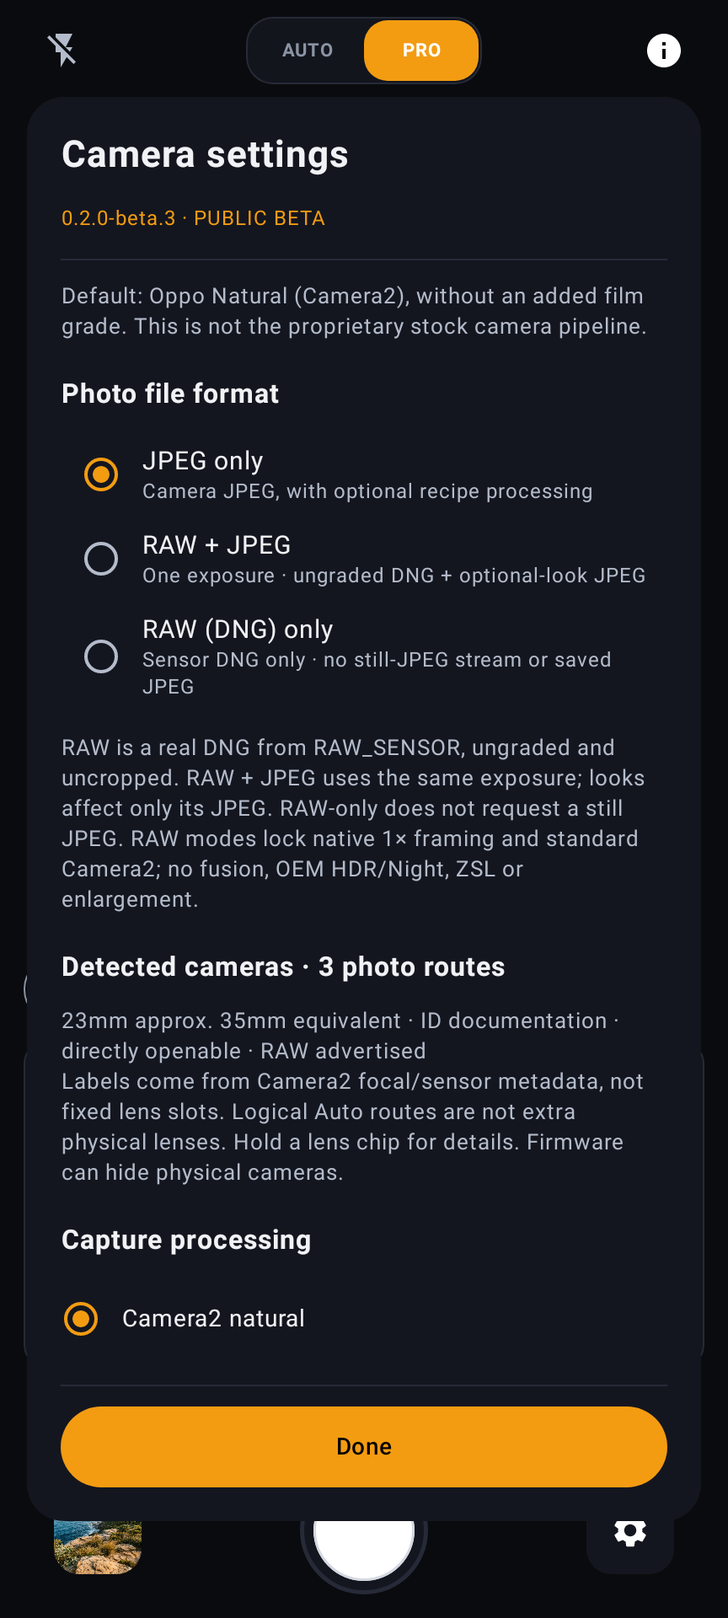
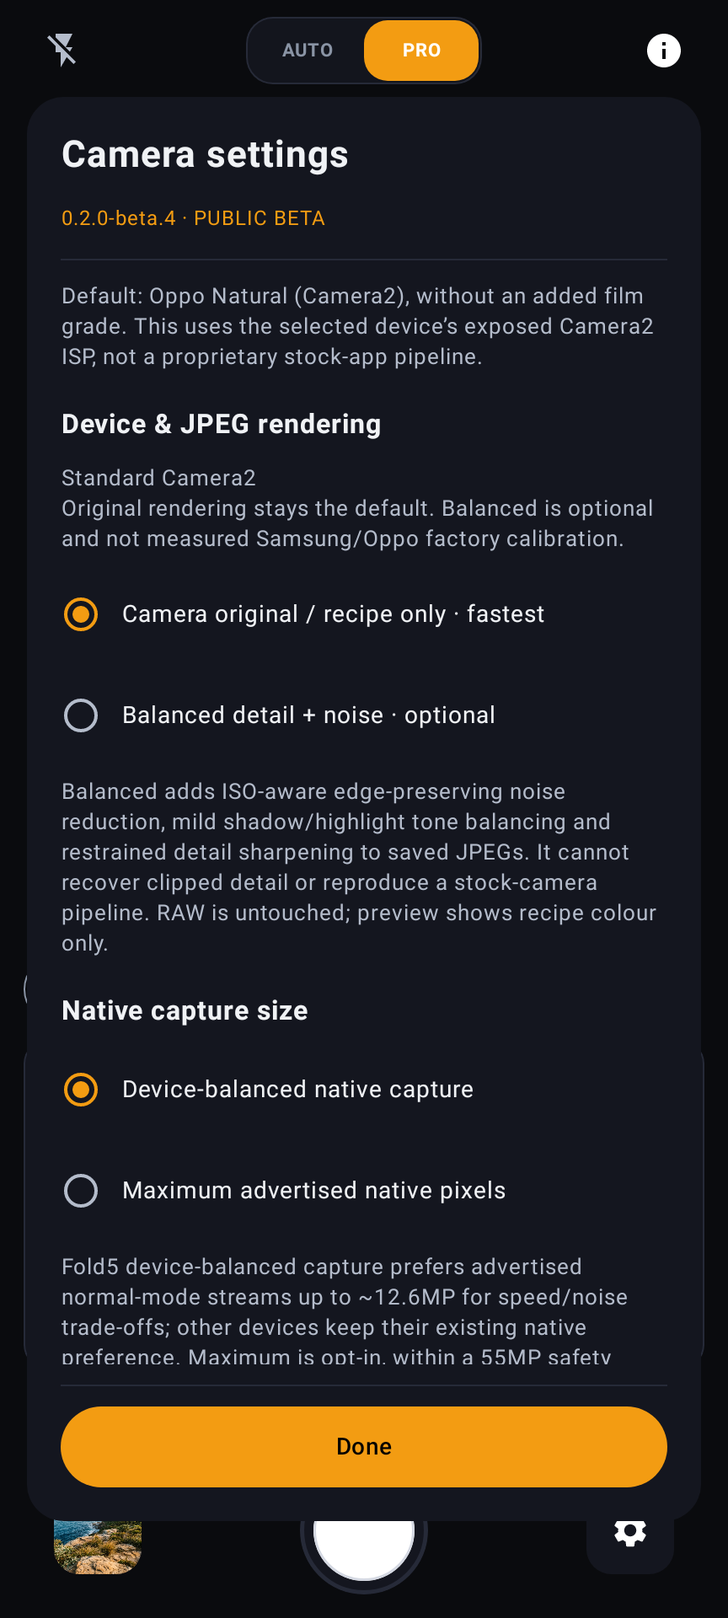
Show Fold5 processing choices and verified beta.4 download on website

Changed region(s): [[0.0625, 0.1875, 0.875, 0.8438]]

diff --git a/site/index.html b/site/index.html
@@ -15,7 +15,7 @@
   <meta property="og:url" content="https://theswagindisguise.github.io/MobileFilmLab/">
   <meta property="og:image" content="https://theswagindisguise.github.io/MobileFilmLab/assets/social-card.png">
   <meta name="twitter:card" content="summary_large_image">
-  <link rel="stylesheet" href="styles.css">
+  <link rel="stylesheet" href="styles.css?v=beta4">
   <script src="app.js" defer></script>
 </head>
 <body>
@@ -45,6 +45,7 @@
       <nav class="desktop-nav" aria-label="Main navigation">
         <a href="#philosophy">Why natural</a>
         <a href="#experience">The experience</a>
+        <a href="#fold5">Fold5 &amp; processing</a>
         <a href="#raw-formats">RAW formats</a>
         <a href="#compatibility">Your device</a>
         <a href="#questions">FAQ</a>
@@ -54,6 +55,7 @@
         <details class="mobile-menu">
           <summary aria-label="Open navigation"><svg class="icon"><use href="#i-menu"/></svg></summary>
           <nav aria-label="Mobile navigation"><a href="#philosophy">Why natural</a><a href="#experience">The experience</a>
+        <a href="#fold5">Fold5 &amp; processing</a>
         <a href="#raw-formats">RAW formats</a><a href="#compatibility">Your device</a><a href="#questions">FAQ</a></nav>
         </details>
       </div>
@@ -64,16 +66,16 @@
     <section class="hero section" aria-labelledby="hero-title">
       <div class="container hero-grid">
         <div class="hero-copy">
-          <a class="release-pill" href="https://github.com/TheSwagInDisguise/MobileFilmLab/releases/tag/v0.2.0-beta.3"><span class="status-dot"></span> Public release <span class="pill-version">v0.2.0-beta.3</span><svg class="icon"><use href="#i-arrow"/></svg></a>
+          <a class="release-pill" href="https://github.com/TheSwagInDisguise/MobileFilmLab/releases/tag/v0.2.0-beta.4"><span class="status-dot"></span> Public release <span class="pill-version">v0.2.0-beta.4</span><svg class="icon"><use href="#i-arrow"/></svg></a>
           <h1 id="hero-title">Natural photos.<br><em>No AI added.</em></h1>
           <p class="hero-description">Your camera hardware. Your eye. A quieter Android camera built around native output—not an image model.</p>
           <p class="hero-detail">Shoot naturally, take manual control, or choose a film-inspired look. The processing MobileFilmLab adds is local, optional and non-AI.</p>
           <div class="hero-buttons">
-            <a class="button button-primary download-link" href="https://github.com/TheSwagInDisguise/MobileFilmLab/releases/download/v0.2.0-beta.3/MobileFilmLab-v0.2.0-beta.3-signed.apk"><svg class="icon"><use href="#i-download"/></svg> Download for Android</a>
+            <a class="button button-primary download-link" href="https://github.com/TheSwagInDisguise/MobileFilmLab/releases/download/v0.2.0-beta.4/MobileFilmLab-v0.2.0-beta.4-signed.apk"><svg class="icon"><use href="#i-download"/></svg> Download for Android</a>
             <a class="text-link" href="#experience">Take a look <svg class="icon"><use href="#i-arrow"/></svg></a>
           </div>
           <div class="hero-meta"><span>Android 9+</span><span>Free &amp; open source</span><span>Photos only</span></div>
-          <div class="target-note"><span class="small-rule"></span><p>Built primarily for <strong>Oppo Find X9 Ultra.</strong><br>More-device compatibility, with help from testers.</p></div>
+          <div class="target-note"><span class="small-rule"></span><p>Built primarily for <strong>Oppo Find X9 Ultra.</strong><br>Now with Fold5-aware compatibility work—hardware validation still pending.</p></div>
         </div>
         <div class="hero-visual">
           <div class="visual-orbit orbit-one" aria-hidden="true"></div><div class="visual-orbit orbit-two" aria-hidden="true"></div>
@@ -94,7 +96,7 @@
         <div class="section-heading split-heading"><div><p class="eyebrow">01 / The philosophy</p><h2 id="philosophy-title">Start with the light.<br><em>Not a prediction.</em></h2></div><p class="heading-description">A natural starting point should be a starting point—not an effect you have to undo.</p></div>
         <div class="philosophy-grid">
           <article class="feature-card featured-card"><div class="card-top"><span class="card-icon"><svg class="icon"><use href="#i-camera"/></svg></span><span class="card-number">01</span></div><h3>Let the camera be a camera.</h3><p>The default Natural profile starts with the JPEG exposed by your device’s Camera2 pipeline. At 1×, with no edits enabled, it preserves the original JPEG pixel data and adds capture metadata.</p><span class="card-tag">No mandatory film grade. No mandatory enlargement.</span></article>
-          <article class="feature-card"><div class="card-top"><span class="card-icon"><svg class="icon"><use href="#i-noai"/></svg></span><span class="card-number">02</span></div><h3>No AI enhancement added.</h3><p>MobileFilmLab adds no generative image model, neural photo enhancement or cloud processing. Optional colour, sharpening, grain and fusion use conventional, non-ML algorithms.</p><a class="small-link" href="#processing-note">What this does—and doesn’t—mean <svg class="icon"><use href="#i-arrow"/></svg></a></article>
+          <article class="feature-card"><div class="card-top"><span class="card-icon"><svg class="icon"><use href="#i-noai"/></svg></span><span class="card-number">02</span></div><h3>No AI enhancement added.</h3><p>MobileFilmLab adds no generative image model, neural photo enhancement or cloud processing. Optional colour, noise filtering, tone, sharpening, grain and fusion use conventional, non-ML algorithms.</p><a class="small-link" href="#processing-note">What this does—and doesn’t—mean <svg class="icon"><use href="#i-arrow"/></svg></a></article>
           <article class="feature-card"><div class="card-top"><span class="card-icon"><svg class="icon"><use href="#i-shield"/></svg></span><span class="card-number">03</span></div><h3>Your photos stay yours.</h3><p>Preview, capture, looks and recipe processing happen on-device. No advertising, analytics or photo uploads. The app contacts GitHub only when you choose to check for an update.</p><a class="small-link" href="https://github.com/TheSwagInDisguise/MobileFilmLab/blob/main/docs/PRIVACY.md">Read the privacy notice <svg class="icon"><use href="#i-external"/></svg></a></article>
         </div>
         <div id="processing-note" class="processing-note"><svg class="icon"><use href="#i-sliders"/></svg><p><strong>Hardware-first isn’t a firmware bypass.</strong> JPEG still passes through the device ISP. Real sensor RAW/DNG is now available where Camera2 advertises it, without app-added colour, grain or crop. Even RAW can include hardware/firmware corrections; proprietary manufacturer processing remains outside the no-app-added-AI guarantee.</p></div>
@@ -118,7 +120,31 @@
         <div class="raw-formats-copy"><p class="eyebrow">New in beta.3 / Clearer by design</p><h2 id="pro-controls-title">Less tapping.<br><em>More control.</em></h2><p>Open a parameter. Drag its slider. See the value. Pro controls no longer ask you to tap through a list of settings.</p>
           <div class="format-options"><article><span>01</span><div><h3>Slide, don’t cycle.</h3><p>EV snaps to the camera’s exposure steps. ISO and shutter use photographic logarithmic scales. White balance has a temperature slider and Auto.</p></div></article><article><span>02</span><div><h3>Honest limits. Explicit states.</h3><p>Controls follow the selected camera’s capabilities. With one exposure axis manual, its companion is metered then held—not priority-auto exposure. Return both to Auto for EV.</p></div></article><article><span>03</span><div><h3>Settings you can read.</h3><p>Higher-contrast labels, larger explanations and roomier choices. Scroll the settings without losing the Done action.</p></div></article></div>
           <p class="raw-limits">Shutter respects sensor/frame limits and a 30-second app cap. White-balance Kelvin is an approximate gain model, not calibrated colour science. Real-device response still needs testing.</p><a class="text-link" href="https://github.com/TheSwagInDisguise/MobileFilmLab/blob/main/docs/PRO_CONTROLS.md">Pro controls and limitations <svg class="icon"><use href="#i-arrow"/></svg></a>
-        </div><div class="raw-formats-visual"><button class="screen-button" type="button" data-screen="assets/app-settings.webp" data-title="Readable Settings — actual native UI render with illustrative camera state" aria-label="Enlarge the readable settings panel"><span class="phone"><img src="assets/app-settings.webp" width="864" height="1920" alt="Actual high-contrast Settings panel with light labels and a persistent gold Done button" loading="lazy" decoding="async"></span><span class="enlarge-label">View settings <svg class="icon"><use href="#i-external"/></svg></span></button><p>Actual Android/Compose UI render<br>Illustrative state, not a handset screenshot.</p></div>
+        </div><div class="raw-formats-visual"><button class="screen-button" type="button" data-screen="assets/app-settings.webp?v=beta4" data-title="Readable Settings — actual native UI render with illustrative camera state" aria-label="Enlarge the readable settings panel"><span class="phone"><img src="assets/app-settings.webp?v=beta4" width="864" height="1920" alt="Actual high-contrast Settings panel with light labels and a persistent gold Done button" loading="lazy" decoding="async"></span><span class="enlarge-label">View settings <svg class="icon"><use href="#i-external"/></svg></span></button><p>Actual Android/Compose UI render<br>Illustrative state, not a handset screenshot.</p></div>
+      </div>
+    </section>
+
+    <section id="fold5" class="section fold5-section" aria-labelledby="fold5-title">
+      <div class="container fold5-grid">
+        <div class="fold5-copy">
+          <p class="eyebrow">Beta.4 / More room. More choice.</p>
+          <h2 id="fold5-title">A Fold5-aware start.<br><em>Still your photograph.</em></h2>
+          <p>A device-balanced native stream policy, optional conventional JPEG processing, and safer experimental HDR fusion. No image model. No edits to your DNG.</p>
+          <ul class="fold5-choices">
+            <li><strong>Natural stays the default.</strong><span>Original camera JPEG pixels on the unedited 1× Natural path. No mandatory filtering or enlargement.</span></li>
+            <li><strong>Balance detail and noise.</strong><span>Optional ISO-aware edge-preserving filtering, mild adaptive tone and restrained low-ISO sharpening. Colour stays device-driven, not a claimed factory calibration.</span></li>
+            <li><strong>Keep HDR deliberate.</strong><span>Experimental fusion uses real exposure metadata and RGB motion rejection. Static scenes only to start; no stock-camera or ghost-free guarantee.</span></li>
+          </ul>
+          <a class="text-link" href="https://github.com/TheSwagInDisguise/MobileFilmLab/blob/main/docs/GALAXY_Z_FOLD5.md">Fold5 setup &amp; processing choices <svg class="icon"><use href="#i-arrow"/></svg></a>
+          <div class="fold5-boundary"><strong>Compatibility work, not handset certification.</strong><p>Capture was reported working with poor quality. No firmware report or original samples were supplied; real Fold5 image quality, speed and folding still need validation. Oppo Find X9 Ultra remains the primary target.</p></div>
+        </div>
+        <div class="fold5-visual">
+          <div class="fold5-gallery">
+            <figure><button class="screen-button fold5-window" type="button" data-screen="assets/app-fold5-cover.webp" data-title="Fold5 cover layout — illustrative native UI render" aria-label="Enlarge the illustrative Fold5 cover layout"><img src="assets/app-fold5-cover.webp" width="672" height="1680" loading="lazy" decoding="async" alt="Actual narrow 336dp PRO layout rendered with a labelled demo scene, not Fold5 camera evidence"></button><figcaption>Cover / PRO<span>336dp layout fixture</span></figcaption></figure>
+            <figure><button class="screen-button fold5-window" type="button" data-screen="assets/app-fold5-inner.webp" data-title="Fold5 inner layout — illustrative native UI render" aria-label="Enlarge the illustrative Fold5 inner layout"><img src="assets/app-fold5-inner.webp" width="1400" height="1680" loading="lazy" decoding="async" alt="Actual wide 700dp AUTO layout with centred portrait controls and a labelled demo scene"></button><figcaption>Inner / AUTO<span>700dp layout fixture</span></figcaption></figure>
+          </div>
+          <p class="gallery-disclosure">Actual Android/Compose UI renders · AI-generated demo scene and illustrative capabilities.<br>Not handset screenshots, folding tests or app-captured photographs.</p>
+        </div>
       </div>
     </section>
 
@@ -149,19 +175,20 @@
 
     <section id="questions" class="section questions-section" aria-labelledby="questions-title">
       <div class="container questions-grid"><div class="questions-heading"><p class="eyebrow">05 / A few honest answers</p><h2 id="questions-title">Before your<br><em>first frame.</em></h2><p>No hidden magic.<br>No promises the hardware can’t keep.</p></div><div class="faq-list">
-        <details><summary>Does the app use AI to process my photos?<span class="faq-plus" aria-hidden="true"></span></summary><div class="faq-answer"><p>MobileFilmLab adds no generative image model, ML enhancement or cloud photo processing. Its optional editing and fusion are conventional algorithms.</p><p>Your device’s camera/ISP still processes images, and optional manufacturer extensions may use proprietary techniques. We can’t promise that every firmware path is AI-free.</p></div></details>
+        <details><summary>Does the app use AI to process my photos?<span class="faq-plus" aria-hidden="true"></span></summary><div class="faq-answer"><p>MobileFilmLab adds no generative image model, ML enhancement or cloud photo processing. Its optional colour, balanced JPEG filtering and fusion are conventional algorithms.</p><p>Your device’s camera/ISP still processes images, and optional manufacturer extensions may use proprietary techniques. We can’t promise that every firmware path is AI-free.</p></div></details>
+        <details><summary>What changed for Galaxy Z Fold5?<span class="faq-plus" aria-hidden="true"></span></summary><div class="faq-answer"><p>Beta.4 recognises Samsung SM-F946* models and favours real normal-mode native JPEG streams around a 12.6MP budget rather than automatically opening expensive high-resolution streams. Maximum native capture remains opt-in within a 55MP safety ceiling. No camera IDs, sizes or hidden-lens access are invented.</p><p>In Settings, choose optional <strong>Balanced detail + noise</strong> for conventional saved-JPEG filtering and keep Device-balanced native capture / Native pixels. Original rendering remains the default; RAW is untouched. Preview shows recipe colour, not final denoise/tone.</p><p>Capture already worked according to the reporter, but quality was poor. No original samples, capability report or firmware version were provided, so this is not measured calibration, stock-camera parity or proof of a real fold transition. <a href="https://github.com/TheSwagInDisguise/MobileFilmLab/blob/main/docs/GALAXY_Z_FOLD5.md">Read the setup and limitations.</a></p></div></details>
         <details><summary>Can I capture real RAW files?<span class="faq-plus" aria-hidden="true"></span></summary><div class="faq-answer"><p>Yes, on camera routes that advertise usable RAW_SENSOR support. Choose RAW (DNG) only, RAW + JPEG, or JPEG only from the format badge or Settings. RAW-only requests no still JPEG; paired mode uses one timestamp-matched request.</p><p>DNG is written from the sensor image through Android DngCreator—not converted from a JPEG. No app recipe, grain, RGB correction, digital crop or interpolation is applied. RAW modes use standard Camera2, native 1× and advertised normal-pixel-mode sizes up to 55MP; OEM modes, fusion and ZSL are JPEG-only.</p><p>Firmware can reject advertised combinations. Real DNG validity and rendering still need handset testing in a RAW-capable editor. Hardware corrections can already be present in exposed RAW.</p></div></details>
         <details><summary>How do the Pro sliders work?<span class="faq-plus" aria-hidden="true"></span></summary><div class="faq-answer"><p>Tap a parameter tab to open its editor without changing the value. EV, ISO, shutter and white balance use sliders; Auto/metered is an explicit switch, and supported autofocus modes are direct choices.</p><p>EV needs both ISO and shutter set to Auto. If just one exposure axis is manual, the other uses a metered-and-held value—not true ISO/shutter-priority auto. Shutter is bounded by sensor/frame limits and 30 seconds; WB Kelvin is approximate. Unsupported controls show a reason.</p><p>Settings also has higher-contrast text, larger labels and a scrolling body with a persistent Done action. Actual handset display and manual-control behaviour still need testing.</p></div></details>
-        <details><summary>How do I keep the most natural starting point?<span class="faq-plus" aria-hidden="true"></span></summary><div class="faq-answer"><p>Use the default Natural baseline, standard Camera2 processing, native output and 1× framing, with grain off and lens gains unchanged. In that unedited path, the exposed JPEG pixel data is preserved and capture/recipe metadata is added.</p><p>Choosing a look, crop, grain or calibration edit changes the result. Those creative choices stay in your hands.</p></div></details>
+        <details><summary>How do I keep the most natural starting point?<span class="faq-plus" aria-hidden="true"></span></summary><div class="faq-answer"><p>Use the default Natural baseline, standard Camera2 processing, native output, Camera original rendering and 1× framing, with grain off and lens gains unchanged. In that unedited path, the exposed JPEG pixel data is preserved and capture/recipe metadata is added.</p><p>Choosing a look, crop, grain or calibration edit changes the result. Those creative choices stay in your hands.</p></div></details>
         <details><summary>How does the app find my lenses?<span class="faq-plus" aria-hidden="true"></span></summary><div class="faq-answer"><p>Camera2 provides public camera IDs, physical links behind logical cameras, focal lengths, sensor dimensions and stream capabilities. The selector now shows all exposed photo-capable rear routes instead of four fixed slots, and selects each by its exact ID.</p><p>Labels use approximate detected equivalent focal lengths, physical millimetres marked with an asterisk when necessary, or an ID if metadata is missing. Logical Auto routes are not additional physical lenses. Firmware-hidden cameras remain inaccessible.</p><p>Oppo Find X9 Ultra remains the primary target. Please send a device report to help expand compatibility.</p></div></details>
         <details><summary>Why is the screenshot scene AI-generated?<span class="faq-plus" aria-hidden="true"></span></summary><div class="faq-answer"><p>The screenshots render the app’s actual Android/Compose UI without a connected handset. The landscape and camera/RAW capability state are illustrative. They demonstrate the controls, not a captured photo, valid sensor DNG or device compatibility.</p><p>The project was also developed substantially with AI assistance. That is separate from the app’s photo-processing design. <a href="https://github.com/TheSwagInDisguise/MobileFilmLab/blob/main/docs/AI_DISCLOSURE.md">Read the development disclosure.</a></p></div></details>
         <details><summary>Is there a warranty or liability for device damage?<span class="faq-plus" aria-hidden="true"></span></summary><div class="faq-answer"><p>MobileFilmLab is provided “as is”, without warranty, to the maximum extent permitted by applicable law. You use it at your own risk. To that same extent, the developers, maintainers, contributors and copyright holders are not liable for bricked devices, device damage, instability, overheating, battery drain, lost or corrupted photos/data, missed captures or other loss or damage arising from use of, modification of, or inability to use the app.</p><p>Nothing in this notice excludes or limits rights, warranties, remedies or liability that cannot lawfully be excluded or limited, or overrides a separate written warranty or liability agreement. The GPL licence is unchanged.</p><p>Back up important data and keep another camera available for important photos. <a href="https://github.com/TheSwagInDisguise/MobileFilmLab/blob/main/docs/DISCLAIMER.md">Read the full warranty and liability disclaimer.</a></p></div></details>
-        <details><summary>Is this a stable, universally tested camera app?<span class="faq-plus" aria-hidden="true"></span></summary><div class="faq-answer"><p>No. The current version is v0.2.0-beta.3, published as the latest regular GitHub Release by owner request. That classification does not turn it into a newly built stable version or certify every device and feature.</p><p>Keep another camera available for important photos and read the <a href="https://github.com/TheSwagInDisguise/MobileFilmLab/blob/main/KNOWN_LIMITATIONS.md">known limitations</a>.</p></div></details>
+        <details><summary>Is this a stable, universally tested camera app?<span class="faq-plus" aria-hidden="true"></span></summary><div class="faq-answer"><p>No. The current version is v0.2.0-beta.4, published as the latest regular GitHub Release by owner request. That classification does not turn it into a newly built stable version or certify every device and feature.</p><p>Keep another camera available for important photos and read the <a href="https://github.com/TheSwagInDisguise/MobileFilmLab/blob/main/KNOWN_LIMITATIONS.md">known limitations</a>.</p></div></details>
       </div></div>
     </section>
 
     <section id="download" class="section download-section" aria-labelledby="download-title">
-      <div class="container"><div class="download-card"><div class="download-heading"><img src="assets/icon.png" width="72" height="72" alt="MobileFilmLab film-canister icon" loading="lazy"><p class="eyebrow">Your next frame is yours.</p><h2 id="download-title">Take the camera.<br><em>Leave the image model.</em></h2><p>Free, open source, and ready for public testing.</p></div><div class="download-panel"><div class="download-version"><span class="status-dot"></span> Latest release <strong>v0.2.0-beta.3</strong></div><a class="button button-primary button-full download-link" href="https://github.com/TheSwagInDisguise/MobileFilmLab/releases/download/v0.2.0-beta.3/MobileFilmLab-v0.2.0-beta.3-signed.apk"><svg class="icon"><use href="#i-download"/></svg> Download signed APK <span>39.1 MiB</span></a><p class="download-requirements">Android 9+ · versionCode 12 · GPL-3.0-or-later</p><a class="release-details-link" href="https://github.com/TheSwagInDisguise/MobileFilmLab/releases/tag/v0.2.0-beta.3">Release notes, checksums &amp; testing guide <svg class="icon"><use href="#i-external"/></svg></a><div class="install-note"><svg class="icon"><use href="#i-check"/></svg><p>Updating? Install over the existing release. The package and signing key are unchanged. Don’t uninstall if you want to keep your app data.</p></div><details class="checksum-details"><summary>Verify the download <svg class="icon"><use href="#i-shield"/></svg></summary><div><span class="checksum-label">APK SHA-256</span><code id="apk-checksum">5f1dfb769e66b73218d4102c77ff5038c045f5542356ea89394ceade3af0893d</code><button class="copy-button" type="button" data-copy="apk-checksum"><svg class="icon"><use href="#i-copy"/></svg> Copy checksum</button><span id="copy-status" class="copy-status" role="status" aria-live="polite"></span></div></details></div></div></div>
+      <div class="container"><div class="download-card"><div class="download-heading"><img src="assets/icon.png" width="72" height="72" alt="MobileFilmLab film-canister icon" loading="lazy"><p class="eyebrow">Your next frame is yours.</p><h2 id="download-title">Take the camera.<br><em>Leave the image model.</em></h2><p>Free, open source, and ready for public testing.</p></div><div class="download-panel"><div class="download-version"><span class="status-dot"></span> Latest release <strong>v0.2.0-beta.4</strong></div><a class="button button-primary button-full download-link" href="https://github.com/TheSwagInDisguise/MobileFilmLab/releases/download/v0.2.0-beta.4/MobileFilmLab-v0.2.0-beta.4-signed.apk"><svg class="icon"><use href="#i-download"/></svg> Download signed APK <span>39.1 MiB</span></a><p class="download-requirements">Android 9+ · versionCode 13 · GPL-3.0-or-later</p><a class="release-details-link" href="https://github.com/TheSwagInDisguise/MobileFilmLab/releases/tag/v0.2.0-beta.4">Release notes, checksums &amp; testing guide <svg class="icon"><use href="#i-external"/></svg></a><div class="install-note"><svg class="icon"><use href="#i-check"/></svg><p>Updating? Install over the existing release. The package and signing key are unchanged. Don’t uninstall if you want to keep your app data.</p></div><details class="checksum-details"><summary>Verify the download <svg class="icon"><use href="#i-shield"/></svg></summary><div><span class="checksum-label">APK SHA-256</span><code id="apk-checksum">337b2fffe31afef405cfacd945ade6ada14f224ca08d5b71e9537c009cef031a</code><button class="copy-button" type="button" data-copy="apk-checksum"><svg class="icon"><use href="#i-copy"/></svg> Copy checksum</button><span id="copy-status" class="copy-status" role="status" aria-live="polite"></span></div></details></div></div></div>
       <aside id="disclaimer" class="container disclaimer-notice" aria-labelledby="disclaimer-title">
         <h3 id="disclaimer-title">Use at your own risk.</h3>
         <p>MobileFilmLab is provided <strong>“as is”, without warranty</strong>, to the maximum extent permitted by applicable law. To that same extent, the developers, maintainers, contributors and copyright holders are not liable for <strong>bricked devices, device damage, data loss or other loss or damage</strong> arising from use of, modification of, or inability to use the app.</p>

diff --git a/site/styles.css b/site/styles.css
@@ -23,3 +23,9 @@ h1,h2,h3{margin:0;font-weight:500}h1,h2{font-family:var(--serif);letter-spacing:
 /* A visible download-area notice, not an extra licence restriction or consent gate. */
 .disclaimer-notice{margin-top:28px;padding-top:25px;border-top:1px solid #3b4048}.disclaimer-notice h3{font-size:17px;color:var(--text)}.disclaimer-notice p{max-width:1000px;margin-top:12px;font-size:12px;line-height:1.9;color:#b4bbc5}.disclaimer-notice strong{font-weight:600;color:#e0e3e8}.disclaimer-notice .small-link{margin-top:16px}
 @media(max-width:640px){.disclaimer-notice{margin-top:24px;padding-top:21px}.disclaimer-notice h3{font-size:16px}.disclaimer-notice p{font-size:12px;line-height:1.9}.disclaimer-notice .small-link{font-size:11px}}
+
+/* Beta.4: truthful narrow/wide native UI fixtures and optional JPEG choices. */
+.fold5-section{border-block:1px solid var(--border);background:radial-gradient(ellipse at 95% 30%,#a16d2b0c,transparent 65%),#0c1015}.fold5-grid{display:grid;grid-template-columns:1fr 1.12fr;gap:64px;align-items:center}.fold5-copy h2{margin-bottom:22px}.fold5-copy>p:not(.eyebrow){color:var(--muted);line-height:1.8;max-width:520px}.fold5-choices{list-style:none;padding:0;margin:27px 0 24px;display:grid;gap:20px}.fold5-choices li{padding-left:18px;border-left:2px solid #89663e}.fold5-choices strong,.fold5-choices span{display:block}.fold5-choices strong{font-size:15px;margin-bottom:5px}.fold5-choices span{font-size:14px;line-height:1.75;color:var(--muted)}.fold5-boundary{margin-top:26px;padding:17px 18px;border:1px solid var(--border);border-radius:12px;background:#ffffff02}.fold5-boundary>strong{font-size:13px;color:var(--accent)}.fold5-boundary p{font-size:12px;line-height:1.8;color:var(--muted);margin:8px 0 0}.fold5-gallery{display:grid;grid-template-columns:minmax(0,.4fr) minmax(0,.833fr);gap:16px;align-items:start}.fold5-gallery figure{margin:0;min-width:0}.fold5-gallery .fold5-window{border:1px solid #44474b;border-radius:14px;padding:3px;background:#080a0e;overflow:hidden;box-shadow:0 18px 45px #0005;transition:border-color .2s,transform .2s}.fold5-window:hover{border-color:var(--accent);transform:translateY(-4px)}.fold5-window img{width:100%;height:auto;display:block;border-radius:10px}.fold5-gallery figcaption{text-align:center;margin-top:16px;color:var(--text);font-size:12px;font-weight:600;line-height:1.7}.fold5-gallery figcaption span{display:block;font-size:11px;font-weight:400;color:var(--muted)}
+@media(max-width:1000px){.fold5-grid{gap:35px;grid-template-columns:1fr 1fr}.fold5-gallery{gap:10px}}
+@media(max-width:760px){.fold5-grid{grid-template-columns:1fr;gap:40px}.fold5-copy>p:not(.eyebrow){max-width:none}.fold5-visual{max-width:580px;margin-inline:auto;width:100%}.fold5-gallery{gap:15px}.fold5-window:hover{transform:none}}
+@media(prefers-reduced-motion:reduce){.fold5-window:hover{transform:none}.fold5-gallery .fold5-window{transition:none}}

diff --git a/site/app.js b/site/app.js
@@ -20,6 +20,9 @@
     button.addEventListener('click', () => {
       if (!dialog || !image || !title) return;
       opener = button;
+      const source = button.querySelector('img');
+      image.width = Number(source.getAttribute('width')) || 864;
+      image.height = Number(source.getAttribute('height')) || 1920;
       image.src = button.dataset.screen;
       image.alt = button.querySelector('img').alt;
       title.textContent = button.dataset.title;

diff --git a/scripts/check_site.py b/scripts/check_site.py
@@ -74,6 +74,8 @@ def main():
     assert len(downloads) >= 2 and set(downloads) == {release['apkUrl']}, 'Stale download CTA'
     assert release['sha256'] in html and release['primaryDevice'] in html
     assert 'pro-controls' in parser.ids and 'assets/app-settings.webp' in html and 'logarithmic' in html, 'Missing beta.3 Pro/readability showcase'
+    assert 'fold5' in parser.ids and 'assets/app-fold5-cover.webp' in html and 'assets/app-fold5-inner.webp' in html, 'Missing beta.4 Fold5/layout showcase'
+    assert 'Balanced detail + noise' in html and 'handset certification' in html and 'SM-F946' in html, 'Missing processing choice / evidence boundaries'
     assert 'RAW_SENSOR' in html and 'RAW + JPEG' in html and 'ISP' in html and 'firmware' in html, 'Missing RAW capability/firmware disclosure'
     assert 'AI-generated demo scene' in html and 'AI-assisted development' in html, 'Missing provenance disclosure'
     assert 'disclaimer' in parser.ids and 'docs/DISCLAIMER.md' in html and 'bricked devices' in html, 'Missing visible warranty/liability disclaimer'

diff --git a/docs/QA_BETA_4.md b/docs/QA_BETA_4.md
@@ -46,3 +46,12 @@ python3 scripts/check_site.py
 `check_site.py` is run after the verified release digest/size is written to the site; a source-only preparation commit may temporarily retain the previous live-site release metadata. Very small build environments should compile and run tests in separate invocations with a smaller Gradle heap for the test step; do not run overlapping compiler/test/Chromium processes. If `/tmp` is tmpfs, set `TMPDIR` and Java’s `java.io.tmpdir` to disk-backed scratch so extracted native fonts do not consume the RAM budget. Publication CI runs the complete suite without local task exclusions.
 
 [Fold5 setup and hardware checklist](GALAXY_Z_FOLD5.md) · [Testing](TESTING.md) · [Signing](RELEASE_SIGNING.md) · [Disclaimer](DISCLAIMER.md)
+
+## Verified beta.4 app build
+
+- Immutable source/tag: `1a33ea3bfb24341aa674fa97285f21a67a901aa1` / `v0.2.0-beta.4`.
+- [Main CI](https://github.com/TheSwagInDisguise/MobileFilmLab/actions/runs/42617697895) and [signed release](https://github.com/TheSwagInDisguise/MobileFilmLab/actions/runs/42618636353) succeeded; the downloaded signed-workflow QA artifact independently confirms **147 Android tests / 28 classes**, zero failures/errors/skips and eleven native illustrative renders.
+- Six Python guard tests, Android lint and APK package/version/alignment/established-certificate checks passed.
[1 lines of base64/hex data omitted]
+- VersionCode **13**, package `com.mobilefilmlab.camera`. Signing certificate SHA-256: `8D:CD:B6:C6:5B:DA:C8:0A:48:8D:06:3D:70:26:B3:D4:5E:AA:5B:4B:C0:02:E2:D4:C8:4A:CB:C9:73:51:F4:1A`. No new signing key was generated.
+- These checks do not establish real Fold5 quality, folding, thermal behaviour or sensor DNG/editor validity. Website deployment and previous-binary withdrawal are verified separately, without rebuilding/replacing this APK.

diff --git a/docs/PUBLIC_RELEASE.md b/docs/PUBLIC_RELEASE.md
@@ -15,3 +15,12 @@ The nine alpha, beta.1 and beta.2 binary releases were previously withdrawn. Bet
 A physical camera is not connected here. The reporting Fold5 already captures but has poor image quality; no firmware, capability report or original samples were provided. No real-world quality gain, stock-camera parity, speed/battery benchmark, fold transition or DNG/editor validation is claimed. Native renders use a labelled generated scene and illustrative state, not handset images.
 
 Historical records: [beta.3](archive/PUBLIC_RELEASE_BETA_3.md) · [beta.2](archive/PUBLIC_RELEASE_BETA_2.md) · [beta.1](archive/PUBLIC_RELEASE_BETA_1.md). [Signing](RELEASE_SIGNING.md) · [Validation status](BETA_READINESS.md) · [Disclaimer](DISCLAIMER.md).
+
+## Verified beta.4 app build
+
+- Immutable source/tag: `1a33ea3bfb24341aa674fa97285f21a67a901aa1` / `v0.2.0-beta.4`.
+- [Main CI](https://github.com/TheSwagInDisguise/MobileFilmLab/actions/runs/42617697895) and [signed release](https://github.com/TheSwagInDisguise/MobileFilmLab/actions/runs/42618636353) succeeded; the downloaded signed-workflow QA artifact independently confirms **147 Android tests / 28 classes**, zero failures/errors/skips and eleven native illustrative renders.
+- Six Python guard tests, Android lint and APK package/version/alignment/established-certificate checks passed.
[1 lines of base64/hex data omitted]
+- VersionCode **13**, package `com.mobilefilmlab.camera`. Signing certificate SHA-256: `8D:CD:B6:C6:5B:DA:C8:0A:48:8D:06:3D:70:26:B3:D4:5E:AA:5B:4B:C0:02:E2:D4:C8:4A:CB:C9:73:51:F4:1A`. No new signing key was generated.
+- These checks do not establish real Fold5 quality, folding, thermal behaviour or sensor DNG/editor validity. Website deployment and previous-binary withdrawal are verified separately, without rebuilding/replacing this APK.
